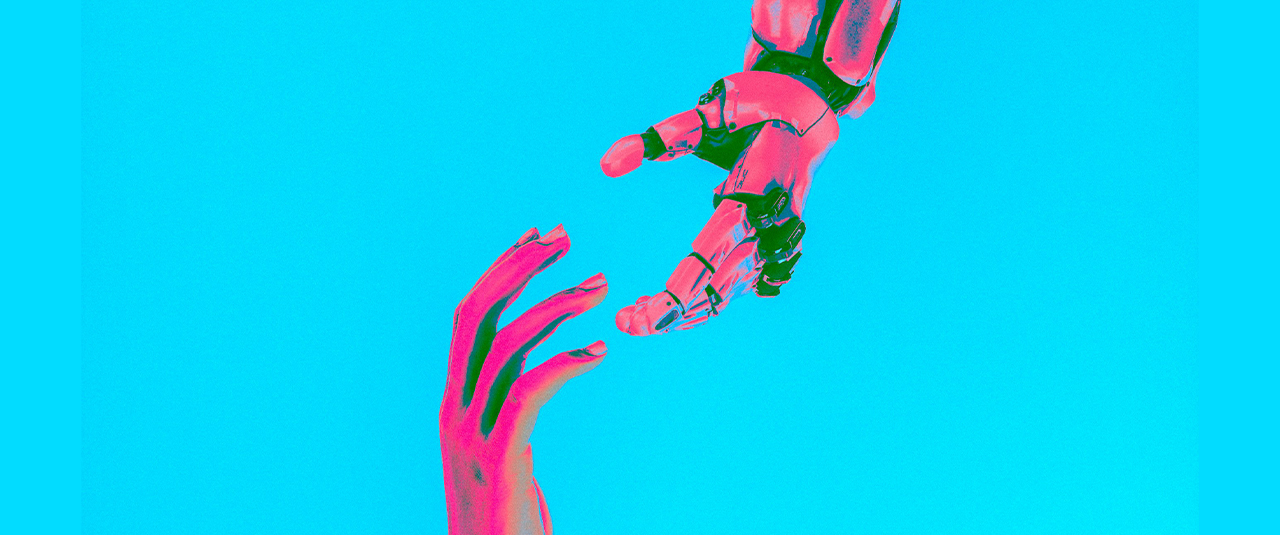
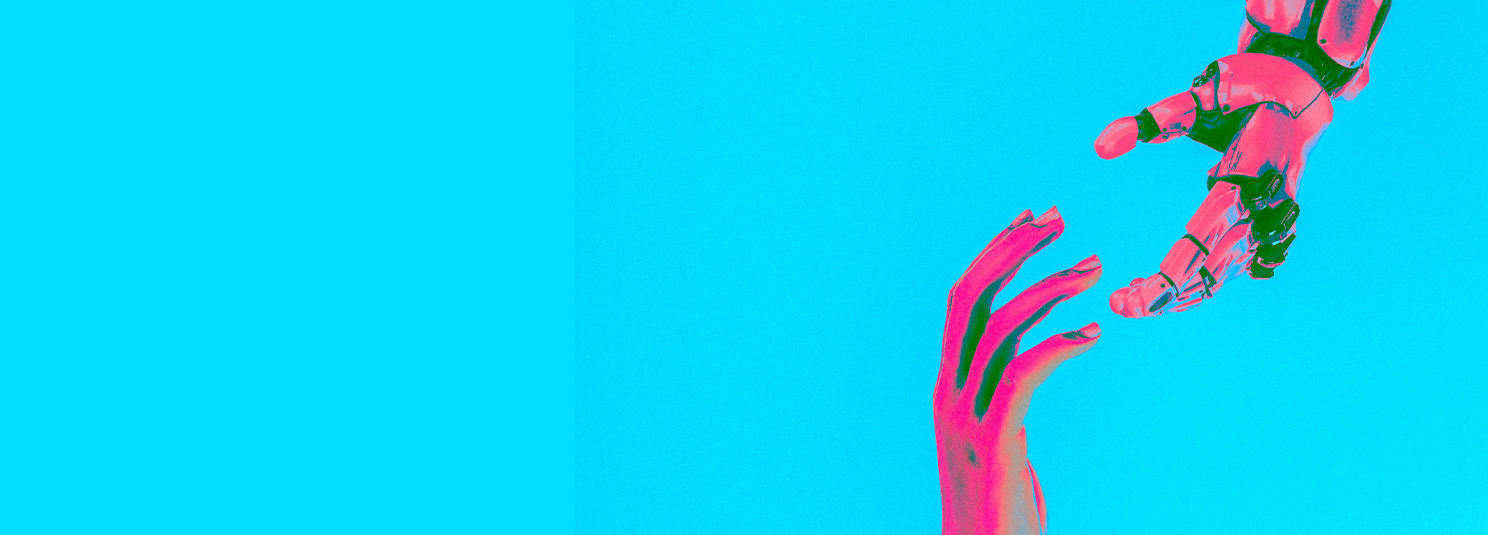
updates

Changed region(s): [[0.3438, 0.0, 0.9375, 1.0]]

diff --git a/style.css b/style.css
@@ -1,5 +1,17 @@
 body {
     font-family: "Roboto", sans-serif;
+    padding-left: 10px;
+    padding-right: 10px;
+    font-smooth: antialiased;
+    -webkit-font-smoothing: antialiased;
+    -moz-osx-font-smoothing: grayscale;
+}
+
+@media screen and (min-width: 1440px) {
+    body {
+        padding-left: 180px;
+        padding-right: 180px;
+    }
 }
 
 h2 {
@@ -181,7 +193,7 @@ p {
 }
 
 .hero-image img {
-    width: 80%;
+    width: 70%;
     height: auto;
 }
 

diff --git a/index.html b/index.html
@@ -15,7 +15,6 @@
                 <div><img class="navbar-logo" src="media/logo last.png" alt=""></div>
                 <a href="#home">Home</a>
                 <a href="#projects">Projects</a>
-                <a href="#solutions">AI Solutions</a>
                 <a href="#resources">Resources</a>
                 <a href="#blog">Blog</a>
 
